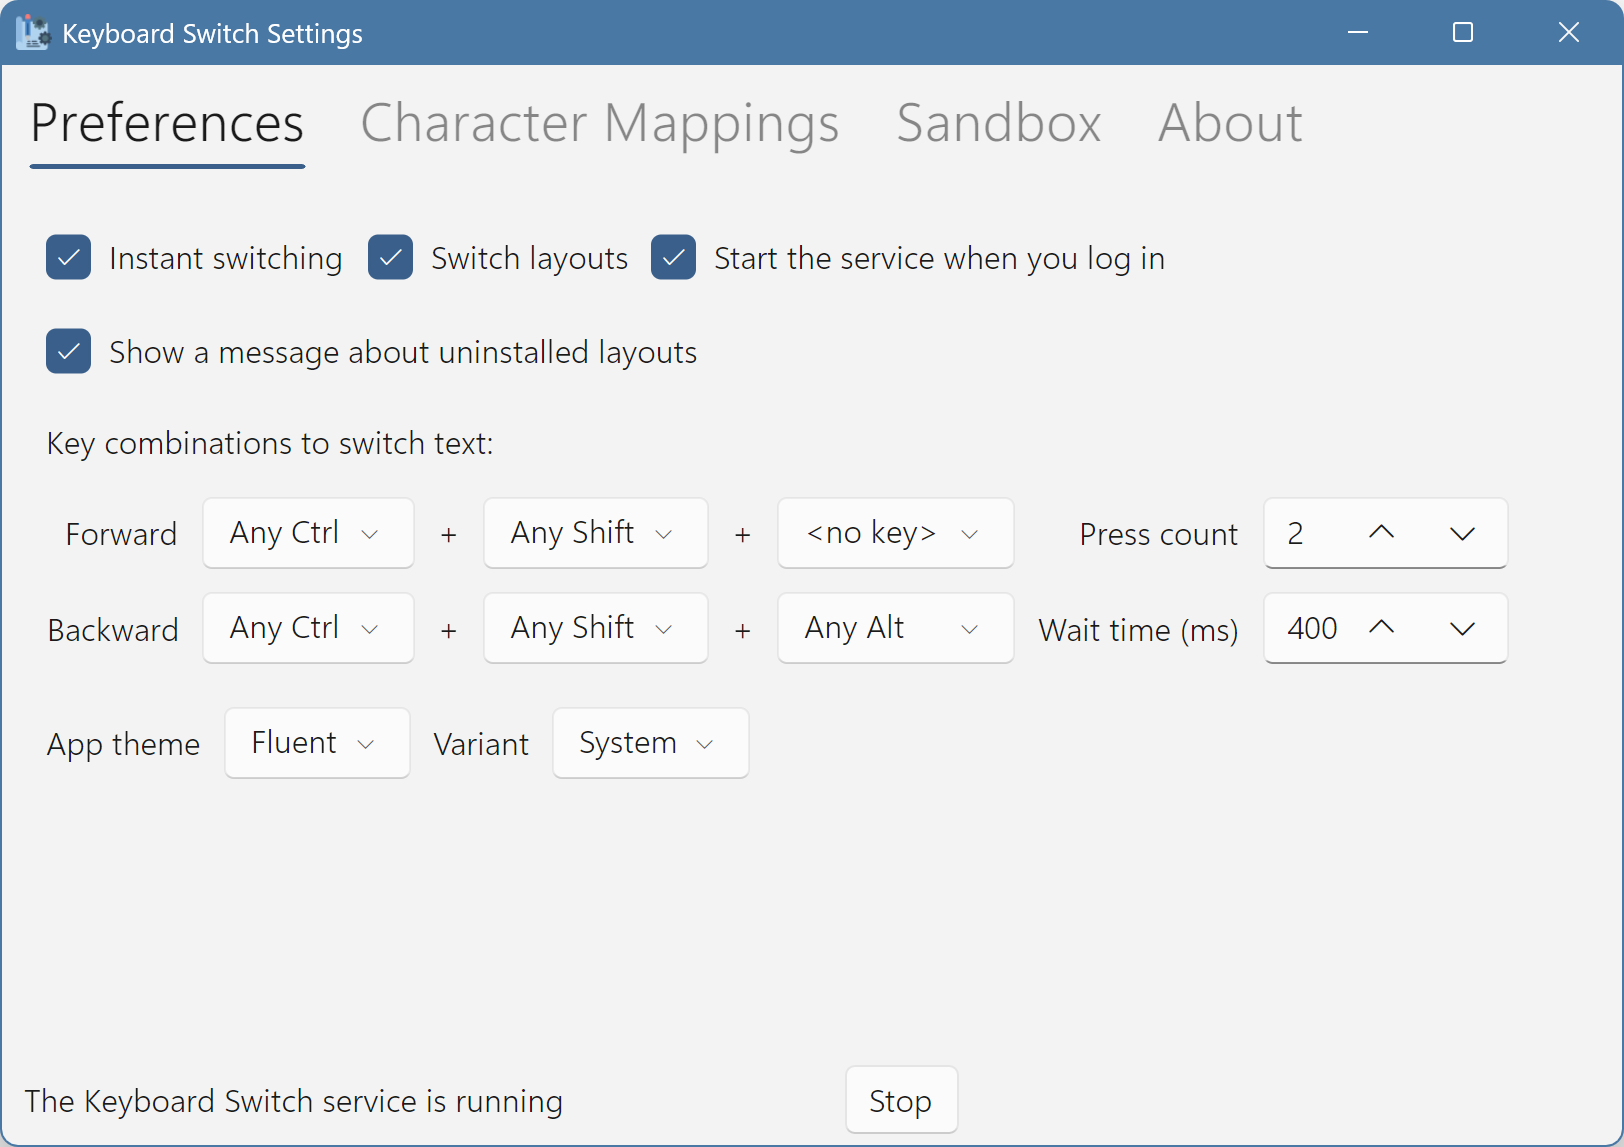
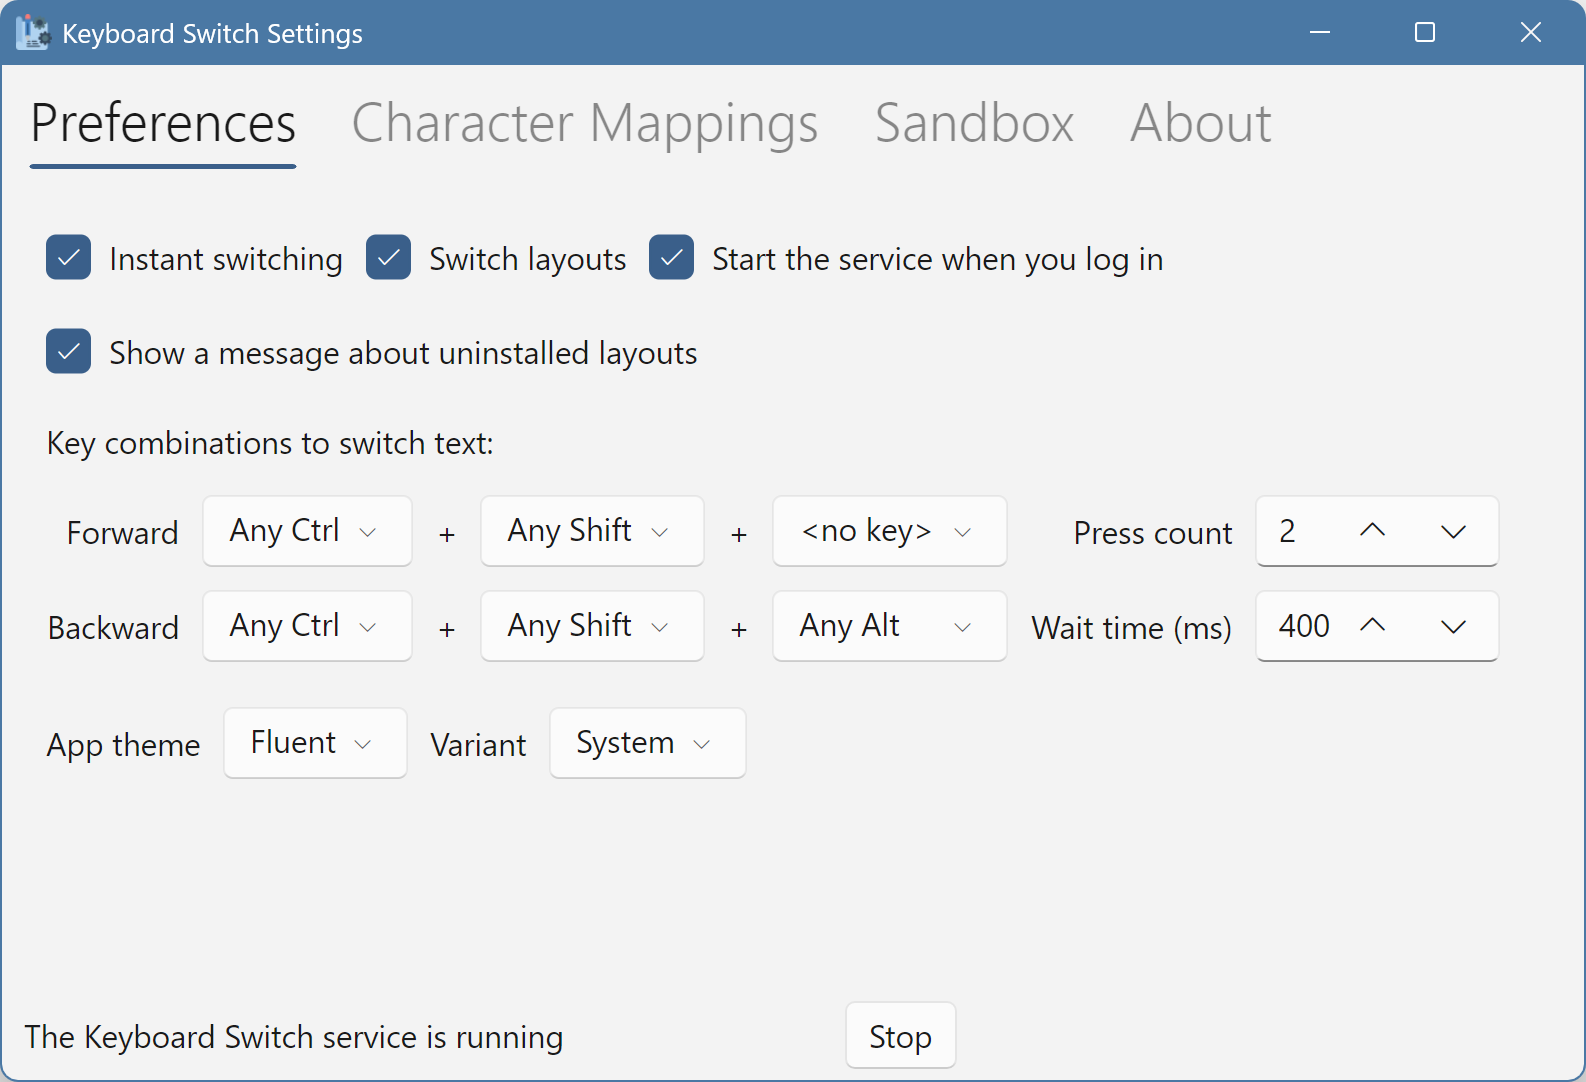
Update the docs for version 4.4.0

diff --git a/index.md b/index.md
@@ -42,8 +42,8 @@ To switch text forward, select the text, and press <kbd>Ctrl</kbd>+<kbd>Shift</k
 
 ## macOS
 
-Download the _.pkg_ file to install the app. If your computer runs on an Intel CPU then you should get the _x86_64_
-package. If your computer runs on an Apple CPU (e.g. M1) then you should get the _arm64_ package.
+Download the _.pkg_ file to install the app. If your computer runs on an Apple CPU (e.g. M1) then you should get the
+_arm64_ package. If your computer runs on an Intel CPU then you should get the _x86_64_ package.
 
 After installing the app, open Keyboard Switch Settings – it should appear in the list of your apps.
 
@@ -69,22 +69,20 @@ To uninstall Keyboard Switch you should run an uninstaller package. You can get 
 The app is available as a deb package (for Debian-based distributions, such as Ubuntu, Mint etc.), an RPM package (for
 RHEL-based distributions, like Rocky Linux or Fedora, as well as SUSE), and a simple _tar.gz_ file.
 
-Note that Keyboard Switch only works on X11 – it won't work on Wayland (even with XWayland).
+Keyboard Switch supports X11 and Wayland (the latter is currently supported only on GNOME and KDE Plasma).
 
 If you use the deb or RPM package, then simply install it either by double-clicking on it, or through the terminal. If
 you use the _tar.gz_ file, then the set-up is not quite as quick, so you can read about it in
 [the installation page](https://docs.keyboardswitch.tolik.io/usage-guides/installation#linux).
 
-Bear in mind that the RPM package may need
-[additional setup](https://docs.keyboardswitch.tolik.io/usage-guides/installation#linux).
+If your desktop environment is GNOME then you should restart it right after opening Keyboard Switch Settings. If you're
+not sure which desktop environment you're using then it's most probably GNOME since it's the default one on Ubuntu,
+Debian, Rocky Linux, Fedora and others (but not Linux Mint). If you're using X11, press <kbd>Alt</kbd>+<kbd>F2</kbd>,
+then type <kbd>r</kbd> and press <kbd>Enter</kbd> – this will restart GNOME. If you're using Wayland (which is most
+probably the case on newer versions of GNOME), then you're have to log out and log back in.
 
 After installing the app, open Keyboard Switch Settings – it should appear in the list of your apps (if your desktop
 environment groups your apps, then it will most probably appear under the _Utilities_ or _Accessories_ group).
-
-If your desktop environment is GNOME then you should restart it right after opening Keyboard Switch Settings. If you're
-not sure which desktop environment you're using then it's most probably GNOME since it's the default one on Ubuntu,
-Debian, Rocky Linux, Fedora and others (but not Linux Mint). Press <kbd>Alt</kbd>+<kbd>F2</kbd>, then type <kbd>r</kbd>
-and press <kbd>Enter</kbd>. This will restart GNOME.
 
 In the opened settings app, press _Start_.
 
@@ -121,9 +119,26 @@ be restored.
 
 # Supported Platforms
 
-Keyboard Switch works on Windows 10/11 (version 1607 or later), macOS 10.15 or later, and Linux via X11. Wayland support
-may come in a future version, but there are
-[several prerequisites](https://github.com/TolikPylypchuk/KeyboardSwitch/issues/54).
+## Windows
+
+Keyboard Switch is supported on Windows 11. It most probably works on earlier versions as well, but they are not
+officially supported, and issues that only appear on older versions will not be fixed.
+
+The x64 and Arm64 architectures are both supported.
+
+## macOS
+
+Keyboard Switch requires macOS 10.15 or later, though it is supported only on macOS versions that are currently
+supported by Apple (as of October 2026, it's macOS 15, 26, and 27). It can run on unsupported versions as well, but
+issues that only appear on older versions will not be fixed.
+
+The Arm64 architecture is supported. The x64 version is also available, but issues that only appear on the x64 version
+will not be fixed. It may be completely dropped in a future release, but for now, it stays.
+
+## Linux
+
+Keyboard switch is supported on Linux. X11 is supported, and Wayland is currently supported only on GNOME and KDE
+Plasma.
 
 The x64 and Arm64 architectures are both supported.
 
